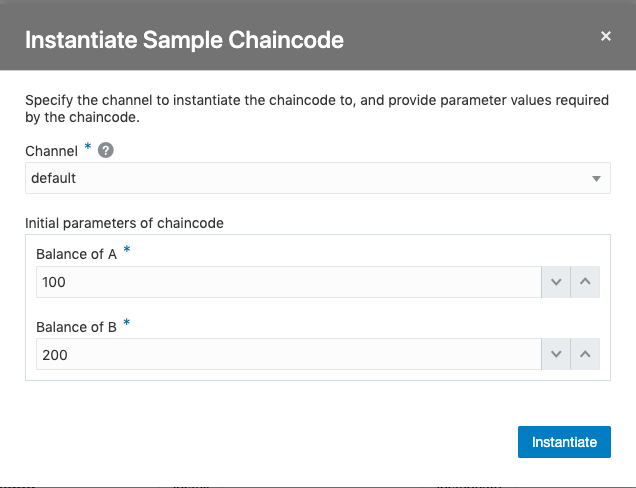
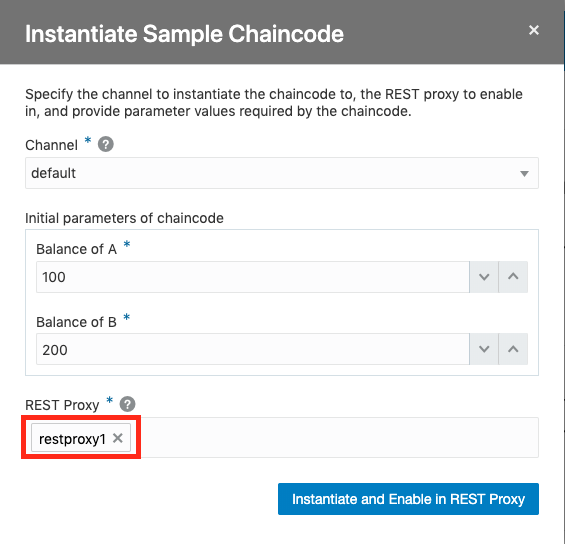
update

diff --git a/Provisioning/README.md b/Provisioning/README.md
@@ -1,69 +1,38 @@
 # 오라클 블록체인 인스턴스 생성하기
-이 단계에서는 3개의 인스턴스를 생성할 예정입니다. Founder 인스턴스 1개와 Participant 인스턴스 2개를 생성하게 됩니다. 인스턴스의 Role은 Founder와 Participant 두가지로 선택이 가능합니다. Founder는 블록체인 네트워크의 중심이 되는 인스턴스로 다른 여러 Participant 인스턴스를 관리할 수 있게 됩니다.
+이 단계에서는 3개의 블록체인 인스턴스를 생성할 예정입니다. Founder 인스턴스 1개와 Participant 인스턴스 2개를 생성하게 됩니다. 인스턴스의 Role은 Founder와 Participant 두가지로 선택이 가능합니다. Founder는 블록체인 네트워크의 중심이 되는 인스턴스로 다른 여러 Participant 인스턴스를 관리할 수 있게 됩니다.
 
-강사로 부터 개별로 전달 받은 IP는 Oracle Blockchain Platform EE(Enterprise Edition) 버전이 설치되어 있는 IP 입니다. EE 버전은 On-Premise에 설치해서 사용할 수 있는 버전으로 Cloud 버전과 거의 유사한 화면을 갖고 있습니다. 이 Lab에서는 EE버전을 사용할 예정입니다.
-
-1. OBP(Oracle BlockChain Platform) Console 에 접속하기
-   본인에게 할당된 3개의 IP 주소 중 첫번째 IP를 사용해서 아래와 같이 접속하면 Blockchain Platform 콘솔 화면에 접속할 수 있습니다.
-
-   http://**할당 받은 IP Address**:7070/console/
-
-2. Organization(조직) 생성하기 Provisioning
-처음 접속을 한 경우에는 아래와 같이 나오게 됩니다.  
-오른쪽에 있는 인스턴스 생성 버튼을 누릅니다.
-![](images/obp_login.png)
-
-3. Lab을 위해 미리 생성해 놓은 계정(obpuser1 / welcome1)으로 로그인을 합니다. 
-4. 로그인을 하면 아래와 같은 블록체인의 모든 인스턴스들을 관리하는 메인화면으로 이동하게 됩니다. Create Instance 를 클릭합니다.
-![](images/obp_console_main.png)
-
-5. 이제 블록체인 네트워크의 메인이 되는 인스턴스를 만들도록 하겠습니다. 인스턴스 이름을 DetroitAuto로 입력합니다. Founder로 선택해서 인스턴스를 만들겠습니다.
-![](images/obp_create_instance1.png)
-
-6. Cluster Configuration 탭에서는 Platform Host를 입력하고 Submit 버튼을 누릅니다. Platform Host는 강사로부터 받은 도메인 이름을 입력합니다. 
-   > 인스턴스 생성은 1개의 Host 에 1개의 인스턴스를 생성할 수 있으며 Domain 이름으로만 생성이 가능합니다. On-Premise로 구성시에도 내부에 DNS 서버(Private DNS)에 등록이 되어 있어야 생성이 가능합니다.
-
-![](images/obp_create_instance2.png)
-
-7. 정상적으로 요청이 전달이 되면 인스턴스 생성이 시작됩니다. 인스턴스 생성까지는 수분 정도 소요가 되게 됩니다.
-![](images/obp_create_instance3.png)
-
-8. 인스턴스가 생성이 되면 Up 으로 표시가 됩니다. 오른쪽에 햄버거 버튼을 클릭하면 해당 인스턴스의 콘솔로 이동할 수 있는 Service Console 이 표시됩니다.
-![](images/obp_create_instance4.png)
-
-9. 인스턴스의 Service Console로 이동하기 전에 도메인주소에 대한 IP주소를 세팅하는 과정이 필요합니다. 이 도메인 주소는 Private DNS에 등록되어 있는 주소이므로 직접 접근할 수 없습니다. 이 IP와 DNS 주소를 hosts파일에 등록해 줍니다. 할당 받은 **3개**의 IP와 DNS 주소를 모두 입력합니다.
-   * 윈도우는 관리자 권한으로 메모장을 열어야 하고 Linux나 Mac은 sudo(root) 권한으로 파일을 열어야 합니다.
-
-    > Windows : [Windows]/system32/drivers/etc/hosts
-    > 
-    > Linux or Mac : /etc/hosts
-
-    > **[할당 받은 IP Address]** [할당 받은 DNS]<br>
-    > 예:) 132.145.91.168 inst1.sub.obpvcn.oraclevcn.com
+먼저 Oracle Cloud Console에서 블록체인 플랫폼 서비스로 이동합니다.
+1. Oracle Cloud에 접속한 후 좌측 상단에 있는 메뉴 버튼을 누른 후 왼쪽 메뉴중에서 '플랫폼 서비스'를 선택 한 후 Blockchain Platform 메뉴를 클릭합니다. 만약 이 메뉴가 보이지 않을 경우 해당 cloud account 의 관리자 계정으로 접속하거나 권한을 별도로 부여 받아야 합니다.
+   ![](images/goto_blockchain1.png)
    
-10. 이제 브라우저에서 DNS 이름으로 새롭게 생성된 detroitauto Founder의 Console 화면으로 이동합니다. obpuser1/welcome1 으로 로그인을 합니다.
-![](images/obp_instance_console.png)
 
-11. 새롭게 생성된 블록체인 Founder 인스턴스의 콘솔 메인 화면을 볼 수 있게 됩니다.
-![](images/obp_instance_console2.png)
+2. 블록체인 플랫폼 콘솔에 처음 접속을 한 경우에는 아래와 같이 나오게 됩니다.  
+오른쪽에 있는 인스턴스 생성 버튼을 누릅니다.
+![](images/goto_blockchain2.png)
 
-12. 지금까지는 Founder 인스턴스를 생성했습니다. 이와 같은 네트워크를 구성할 Participant 인스턴스를 만들어 보도록 하겠습니다. 다시 메인 콘솔로 돌아가서 Create Instance를 클릭해서 생성화면으로 이동합니다. 인스턴스 이름을 **Jude Dealer**를 생성하도록 하겠습니다. 여기서는 새로운 네트워크를 생성하는 Founder가 아니기 때문에 **Participant** 를 선택합니다. 입력 후에 Cluster Configuration 를 선택합니다.
-![](images/obp_create_participant1.png)
+3. 이 Lab에서 사용할 블록체인 인스턴스를 만들도록 하겠습니다. 인스턴스 이름을 DetroitAuto로 입력합니다. Founder로 선택해서 인스턴스를 만들겠습니다. Region은 us-ashburn-1 로 선택하겠습니다.
+'다음' 버튼을 누릅니다.
+![](images/prov1.png)
+4. 생성 버튼을 누릅니다.
+![](images/prov2.png)
 
-13. Cluster Configuration에서는 Platform Host를 할당 받은 두번째 DNS 이름을 입력합니다.
-![](images/obp_create_participant2.png)
+5. 정상적으로 요청이 전달이 되면 인스턴스 생성이 시작됩니다. 인스턴스 생성까지는 수분 정도 소요가 되게 됩니다.
+![](images/prov2.png)
+6. 이 Lab에서는 3개의 인스턴스를 필요로 하기 때문에 바로 다음 인스턴스들을 생성하도록 하겠습니다. 다시 인스턴스 생성 버튼을 누릅니다.
+![](images/prov3.png)
+7. 이번에는 SamDealer라는 이름으로 생성하도록 하겠습니다. 주의할 점은 이 인스턴스는 Founder가 아니라 해당 네트워크에 참가하는 Participant로 생성을 하도록 하겠습니다. 'Create a new Network'를 체크 해제 합니다. Region은 'us-ashuburn-1'로 선택합니다.
+![](images/prov4.png)
 
-14. 수분이 지나면 모든 인스턴스가 생성이 되고 정상적으로 기동이 된 것을 확인하실 수 있습니다.
-![](images/obp_create_instance_done.png)
+1. SamDealer를 생성하고 바로 JudeDealer라는 이름으로 Participant로 생성합니다. 위와 동일하게 'Create a new Network'를 체크 해제 합니다. Region은 'us-ashuburn-1'로 선택합니다.
+![](images/prov5.png)
 
-15. Jude Dealer 생성과 동일한 과정으로 **Sam Dealer**도 생성을 합니다.
-![](images/obp_create_participant2_1.png)
+2. 인스턴스가 생성이 되면 생성이 완료되었다는 메일이 자동으로 발송이 됩니다. 오른쪽에 햄버거 버튼을 클릭하면 해당 인스턴스의 콘솔로 이동할 수 있는 Blockchain Console 이 표시됩니다.
+![](images/prov6.png)
 
-16. Cluster Configuration에서는 Platform Host에 할당 받은 두번째 DNS 이름을 입력합니다.
-![](images/obp_create_participant2_2.png)
+1. 새로운 창으로 해당 블록체인 인스턴스를 관리할 수 있는 Dahshboard Console이 열리게 됩니다.
+![](images/prov7.png)
 
-17. 몇분이 지나면 모든 인스턴스가 생성이 되고 정상적으로 기동이 된 것을 확인하실 수 있습니다.
-![](images/obp_create_participant2_3.png)
-
+1. SamDealer와 JudeDealer의 콘솔을 열어보면 아래와 같이 조금 다른 형태의 화면이 보이게 됩니다. 앞에서 인스턴스를 생성할때 Network를 체크한 Founder의 경우에는 자체적으로 동작하게 되지만, JuderDealer와 SamDealer는 체크를 해제 했습니다. 이는 자체적인 네트워크를 생성하지 않은 Participant로서 반드시 Founder에 Join을 해야만 동작을 합니다. 이 부분은 이후 Lab에서 구성해 보도록 하겠습니다.
+![](images/prov8.png)
 ---
 [이전 Lab으로 이동](../README.md)

diff --git a/CarDealerLab/joinorg.md b/CarDealerLab/joinorg.md
@@ -4,15 +4,13 @@
 먼저 **JudeDealer** 의 콘솔에 접속하기 위해 아래 그림과 같이 Service Console 을 엽니다.
 ![](images/goto_judedealer.png)
 
-2. Founder는 Participant Org의 두 가지 정보가 필요합니다. 첫째는 참가하는 Org를 검증 하기 위한 인증서가 필요하고, 두번째는 Org에서 관리하는 피어 노드에 대한 정보입니다.<br/>
-Participant의 인증서를 가져오기 위해 Participant Org의 콘솔(**JudeDealer 콘솔**)을 엽니다. 
-![](images/judedealer_main.png)
-
-3. **Export** 버튼을 눌러 **JudeDealer-certificates.json** 파일을 서버로 부터 로컬 컴퓨터에 다운로드 합니다.
-다음 단계는 접속하고자 하는 Founder의 Orderer 정보를 import 해야 합니다. **Import Orderer Settings**를 클릭합니다.
+1. 중앙에 있는 2번 'Export Certificates' 를 클릭한 후에 오른쪽 하단의 **Export** 버튼을 눌러 **JudeDealer-certificates.json** 파일을 서버로 부터 로컬 컴퓨터에 다운로드 합니다. 이 파일에는 Participant Org의 인증서와 관리하는 피어 노드에 대한 정보가 들어 있습니다.<br/>
 ![](images/judedealer_join1.png)
 
-4. 다시 Blockchain Platform Manager 콘솔에서 DetroitAuto 인스턴스 콘솔에 접속합니다.
+1. 다음 단계는 접속하고자 하는 Founder의 Orderer 정보를 import 해야 합니다. **Import Orderer Settings**를 클릭합니다.
+![](images/judedealer_join12.png)
+
+4. Blockchain Platform Manager 콘솔에서 DetroitAuto 인스턴스 콘솔에 접속합니다.
 ![](images/goto_founder.png)
 
 5. **DetroitAuto** Founder 조직의 콘솔로 이동해서 **네트워크** 탭을 선택하십시오. 그런 다음 **DetroitAuto** 조직의 햄버거 메뉴를 클릭하여 Orderer 설정파일을(DetroitAuto-orderer-settings.json) 내보냅니다. 내보낸 파일을 저장하십시오.

diff --git a/BalanceTransfer/README.md b/BalanceTransfer/README.md
@@ -1,8 +1,7 @@
 # 샘플 체인코드 배포 및 테스트 (Balance Transfer) #
 -----
 ## 사전 준비사항 ##
-+ Oracle Blockchain Platform Ip Address - 강사 제공
-+ 이전 Lab인 CarDealer Lab을 완료하거나, BlockChain Platform에서 생성한 인스턴스 필요
++ 이전 Lab에서 생성한 BlockChain Platform 인스턴스 필요
 
 ## 소개 ##
 
@@ -18,8 +17,9 @@ A와 B 두 사람의 계좌에 잔고(balance)를 조회하고, 계좌이체를 
 
 DetroitAuto의 Dashboard Console에 접속해서 메뉴중에 **Developer Tools**를 클릭합니다.
 여기에서는 Chaincode 개발에 도움이 되는 오라클 Document에 대한 Link와 설명을 제공합니다.
-
 왼쪽 메뉴에서 **Samples**를 클릭합니다.
+![](images/goto_sample.png)
+
 바로 테스트 해볼 수 있는 Sample인 Balance Transfer와 Car Dealer를 제공하고 있습니다.
 이번 Lab에서는 **Balance Transfer**를 테스트 할 예정입니다.
 **Install** 버튼을 클릭해서 바로 샘플 체인코드를 배포해 보도록 하겠습니다.
@@ -31,6 +31,7 @@ DetroitAuto의 Dashboard Console에 접속해서 메뉴중에 **Developer Tools*
 
 이 체인코드는 처음 **Instantiate(객체화)** 될때 초기값을 입력받도록 작성되었는데, A와 B의 계좌잔고를 세팅하기 위해 **Int** 값을 받습니다. (예: A: 100, B: 200)
 
+Blockchain Platform Cloud에서는 4개의 Rest Proxy를 제공하고 있는데, 여기에서는 일단 restproxy1 1개만 선택하도록 하겠습니다.
 ![](images/balance_trans2.png)
 
 

diff --git a/README.md b/README.md
@@ -7,8 +7,10 @@
 ![Alt text](https://monosnap.com/image/u5jqpRbcB4HjU15gUXMZoAOPlKDeQK.png)
 
 # Prerequisite 
-* 이 핸즈온을 수행하려면 미리 준비되어 있는 Oracle Blockchain Platform의 IP Address가 필요합니다. 만약 IP Address를 받지 못한 경우에는 강사에게 요청하시기 바랍니다.
+* 이 핸즈온을 수행하려면 Oracle Cloud 계정이 있어야 합니다.
 * Postman 툴 ([다운로드](https://www.getpostman.com/apps))
+## 0. 사전 준비
+[Oracle Cloud 에 로그인하기](./oraclecloud_login.md)
 
 ## 1. 블록체인 인스턴스 생성하기
 [Lab 100. 오라클 블록체인 인스턴스 생성하기 ](./Provisioning)

diff --git a/oraclecloud_login.md b/oraclecloud_login.md
@@ -1,0 +1,14 @@
+# 오라클 클라우드에 로그인하기
+먼저 갖고 계신 오라클 클라우드 계정을 통해 오라클에 로그인 합니다.
+1. oracle cloud에 로그인
+   http://oracle.com/ 에 접속 후 상단의 메뉴에서 Sign in to Cloud 클릭
+![](images/login1.png)
+
+2. account 의 이름을 입력합니다.
+![](images/login2.png)
+
+3. 계정과 비밀번호를 입력합니다.
+![](images/login3.png)
+
+---
+[이전 Lab으로 이동](../README.md)

diff --git a/CarDealerLab/README.md b/CarDealerLab/README.md
@@ -1,7 +1,7 @@
 # Car Dealer Lab #
 -----
 ## 사전 준비사항 ##
-+ Oracle Blockchain Platform Ip Address - 강사 제공
++ 이전 Lab에서 생성한 BlockChain Platform 인스턴스 필요
 + Postman 툴 ([다운로드](https://www.getpostman.com/apps))
 
 ## 소개 ##
